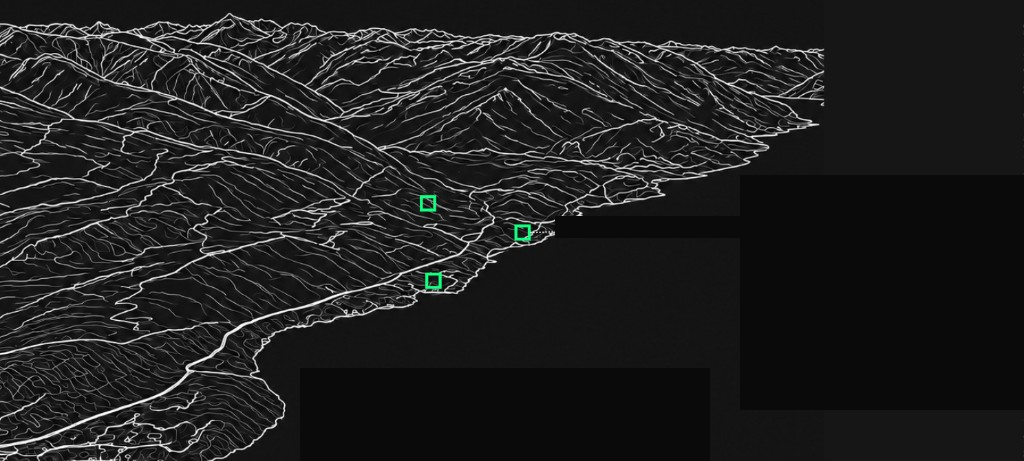
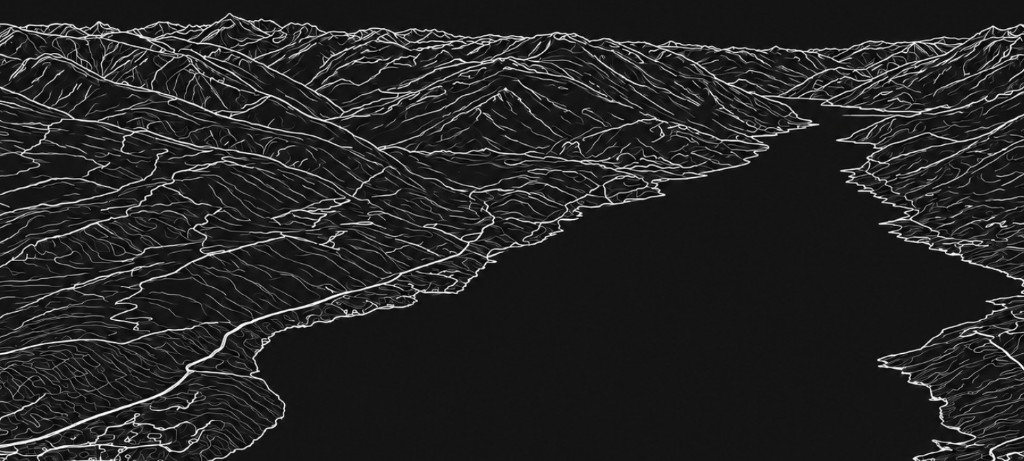
Use clean terrain art and overlay CSS site markers
Swap in the provided contour-map artwork as the first-site background,
anchored to a wide bottom band so it clears the header and crops less.
Add CSS deployment-marker squares over the terrain and a scrim behind
the Key Facts card for legibility. Drop the now-unused cleaning script.

diff --git a/src/components/Section/Section.tsx b/src/components/Section/Section.tsx
@@ -116,21 +116,37 @@ export function Section({ section }: { section: SectionContent }): ReactElement 
         progress.stages.length) *
         SEGMENTS,
     );
+    // Deployment markers, positioned as percentages within the terrain band so
+    // they track the artwork rather than the full panel.
+    const markers = [
+      { left: "31%", top: "34%" },
+      { left: "39%", top: "22%" },
+      { left: "27%", top: "52%" },
+    ];
     return (
       <section
         id={section.id}
         className={styles.site}
         aria-label={section.label}
       >
-        <Image
-          src={background.src}
-          alt={background.alt}
-          fill
-          sizes="100vw"
-          priority
-          unoptimized
-          className={styles.siteBg}
-        />
+        <div className={styles.siteMedia}>
+          <Image
+            src={background.src}
+            alt={background.alt}
+            fill
+            sizes="100vw"
+            priority
+            unoptimized
+            className={styles.siteBg}
+          />
+          {markers.map((m, i) => (
+            <span
+              key={i}
+              className={styles.siteMarker}
+              style={{ left: m.left, top: m.top }}
+            />
+          ))}
+        </div>
         <header className={styles.siteHeader}>
           <p className={styles.kicker}>{section.label}</p>
           <h2 className={styles.siteTitle}>{section.title}</h2>

diff --git a/src/components/Section/Section.module.css b/src/components/Section/Section.module.css
@@ -314,10 +314,33 @@
   overflow: hidden;
 }
 
+/*
+ * The terrain sits in a wide band anchored to the bottom of the panel: this
+ * keeps it clear of the header above and, because the band's aspect ratio is
+ * close to the artwork's, `cover` crops far less (less "zoom").
+ */
+.siteMedia {
+  position: absolute;
+  left: 0;
+  right: 0;
+  bottom: 0;
+  height: 66%;
+  z-index: 0;
+}
+
 .siteBg {
   object-fit: cover;
-  object-position: center;
-  z-index: 0;
+  object-position: center top;
+}
+
+.siteMarker {
+  position: absolute;
+  width: clamp(16px, 1.6vw, 22px);
+  aspect-ratio: 1;
+  border: 2px solid #22c55e;
+  background: rgba(34, 197, 94, 0.18);
+  transform: translate(-50%, -50%);
+  pointer-events: none;
 }
 
 .siteHeader {
@@ -346,6 +369,10 @@
   transform: translateY(-50%);
   z-index: 2;
   min-width: 280px;
+  padding: 22px 26px;
+  border-radius: 6px;
+  background: rgba(12, 12, 14, 0.55);
+  backdrop-filter: blur(3px);
 }
 
 .siteFactsLabel {